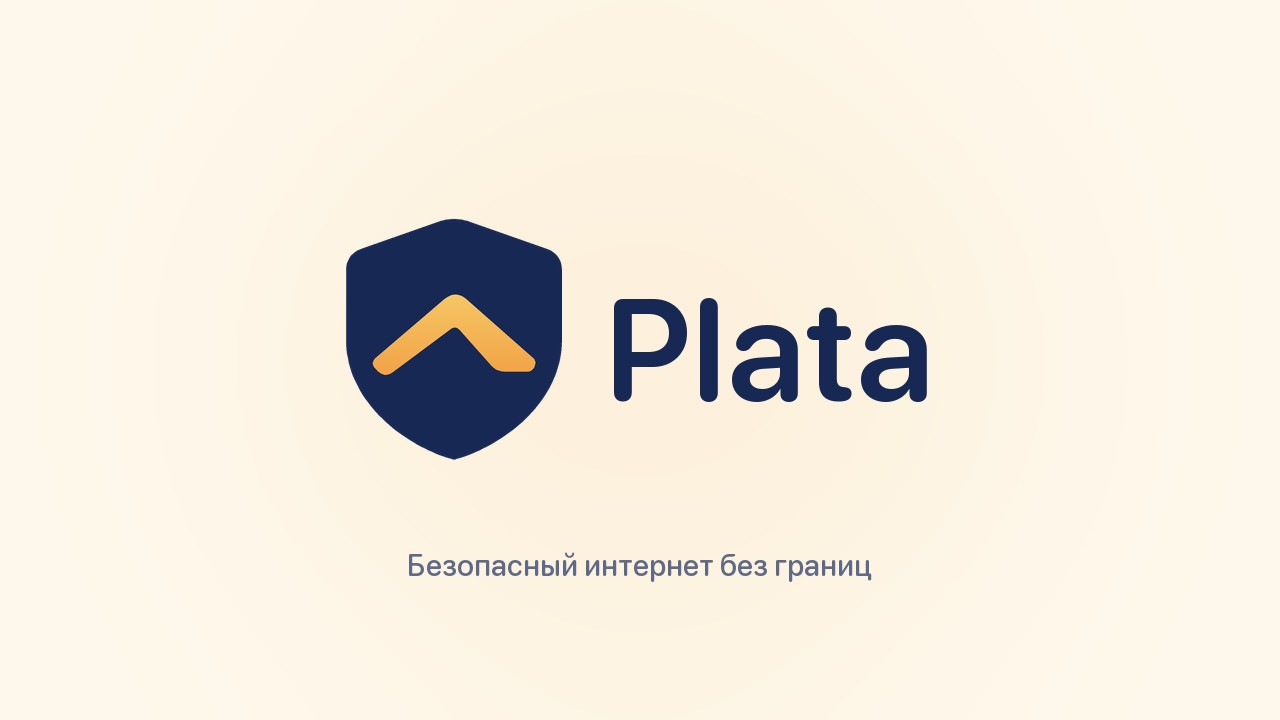
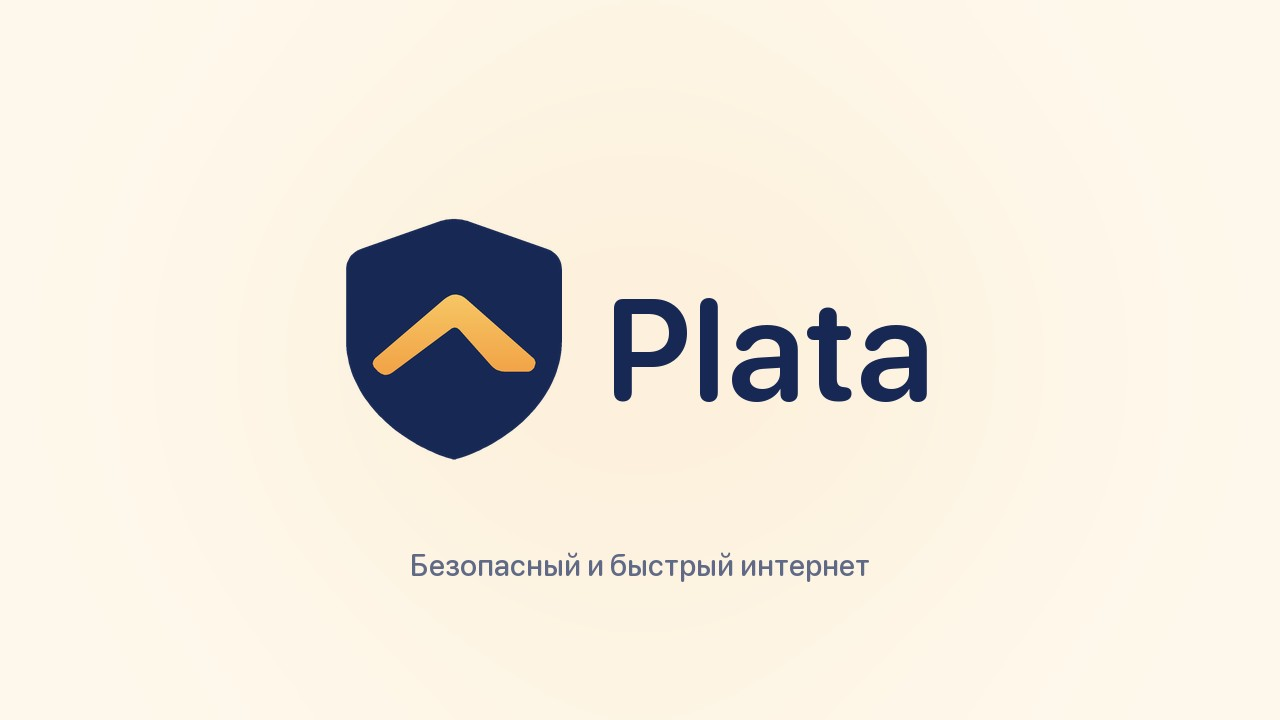
fix: neutral wording in Etalon and Plata bots for payment providers
Platega and YooKassa review the bots: drop named blocked platforms,
«everything that does not open», «without limits/borders» and «free
internet» from greetings, profile descriptions, «how it works» and the
home banners; speak of speed and an encrypted connection instead.
A test keeps those phrases out of every branded theme.

Changed region(s): [[0.3125, 0.7639, 0.6875, 0.825]]

diff --git a/marat_bot/themes/etalon.py b/marat_bot/themes/etalon.py
@@ -68,9 +68,9 @@ BUTTONS = {
 def welcome(name: str | None = None) -> str:
     safe = escape_name(name)
     return (
-        f"<b>{NAME}</b> — эталон свободного интернета.\n\n"
+        f"<b>{NAME}</b> — интернет, каким он должен быть.\n\n"
         + (f"Привет, <b>{safe}</b>! " if safe else "Привет! ")
-        + "YouTube, Instagram, ChatGPT и всё, что не открывается, — снова работает.\n\n"
+        + "Быстрое и защищённое соединение на телефоне и компьютере — в одно касание.\n\n"
         + quote(
             f"✦ 4 страны: {FLAGS}",
             "✦ <b>Авто-обход</b> сам держит лучший сервер",
@@ -192,8 +192,9 @@ def help_text(telegram_id: int) -> str:
 
 HOW_IT_WORKS = (
     "📖 <b>Как это работает</b>\n\n"
-    "Вы подключаетесь к серверам за границей, и сайты видят зарубежный адрес — "
-    "поэтому открывается всё, что заблокировано.\n\n"
+    "Приложение шифрует соединение и ведёт его через наши серверы в Европе и США, "
+    "а Авто-обход постоянно держит самый быстрый из них. Российские сервисы "
+    "в режиме РУ-сервисов открываются напрямую.\n\n"
     + quote(
         "📲 Приложение Happ — iPhone, Android, Windows, Mac",
         "🔗 Одна ссылка — все страны и режимы сразу",
@@ -201,10 +202,10 @@ HOW_IT_WORKS = (
     )
 )
 
-SHORT_DESCRIPTION = f"{NAME} — эталон свободного интернета. 🔑 {TRIAL} бесплатно, без оплаты."
+SHORT_DESCRIPTION = f"{NAME} — интернет, каким он должен быть. 🔑 {TRIAL} бесплатно, без оплаты."
 DESCRIPTION = (
-    f"🔑 {NAME} — эталон свободного интернета.\n\n"
-    "✦ YouTube, Instagram, ChatGPT — без ограничений\n"
+    f"🔑 {NAME} — интернет, каким он должен быть.\n\n"
+    "✦ Быстрое и защищённое соединение\n"
     "✦ 4 страны: Польша, Финляндия, Нидерланды, США\n"
     "✦ Авто-обход сам держит лучший сервер\n"
     "✦ Банки и Госуслуги работают без отключения VPN\n\n"

diff --git a/marat_bot/themes/plata.py b/marat_bot/themes/plata.py
@@ -71,7 +71,7 @@ def welcome(name: str | None = None) -> str:
     safe = escape_name(name)
     return (
         (f"👋 Привет, <b>{safe}</b>!\n\n" if safe else "👋 Привет!\n\n")
-        + f"<b>{NAME}</b> — безопасный интернет без границ: YouTube, Instagram, ChatGPT и всё, что не открывается.\n\n"
+        + f"<b>{NAME}</b> — безопасный и быстрый интернет на телефоне и компьютере.\n\n"
         + quote(
             f"✓ 4 страны: {FLAGS}",
             "✓ <b>Авто-обход</b> сам выбирает быстрый сервер",
@@ -193,8 +193,9 @@ def help_text(telegram_id: int) -> str:
 
 HOW_IT_WORKS = (
     "ℹ <b>Как это работает</b>\n\n"
-    "Вы подключаетесь к серверам за границей, и сайты видят зарубежный адрес — "
-    "поэтому открывается всё, что заблокировано.\n\n"
+    "Приложение шифрует соединение и ведёт его через наши серверы в Европе и США — "
+    "это защищает данные, в том числе в публичных Wi-Fi. Российские сервисы "
+    "в режиме РУ-сервисов открываются напрямую.\n\n"
     + quote(
         "📲 Приложение Happ — iPhone, Android, Windows, Mac",
         "🔗 Одна ссылка — все страны и режимы сразу",
@@ -202,10 +203,10 @@ HOW_IT_WORKS = (
     )
 )
 
-SHORT_DESCRIPTION = f"{NAME} — безопасный интернет без границ. 🛡 {TRIAL} бесплатно, без оплаты."
+SHORT_DESCRIPTION = f"{NAME} — безопасный и быстрый интернет. 🛡 {TRIAL} бесплатно, без оплаты."
 DESCRIPTION = (
-    f"🛡 {NAME} — безопасный интернет без границ.\n\n"
-    "✓ YouTube, Instagram, ChatGPT — без ограничений\n"
+    f"🛡 {NAME} — безопасный и быстрый интернет.\n\n"
+    "✓ Шифрование соединения и защита в публичных Wi-Fi\n"
     "✓ 4 страны: Польша, Финляндия, Нидерланды, США\n"
     "✓ Авто-обход сам выбирает быстрый сервер\n"
     "✓ Банки и Госуслуги работают без отключения VPN\n\n"

diff --git a/tests/test_marat_bot.py b/tests/test_marat_bot.py
@@ -850,3 +850,18 @@ def test_inbounds_and_panel_come_from_the_environment():
                          cwd=os.path.dirname(os.path.dirname(os.path.abspath(__file__))))
     assert res.returncode == 0, res.stderr
     assert res.stdout.splitlines() == ["['VLESS DE', 'VLESS NL']", "https://panel.example:8443 avangard"]
+
+
+# --- 13.10.2026: формулировки для платёжных провайдеров (Platega, ЮKassa) ---
+
+from marat_bot.themes import plata  # noqa: E402
+
+_RISKY = ("заблокир", "блокиров", "youtube", "instagram", "chatgpt", "без границ", "свободного интернета",
+          "не открывается", "без ограничений")
+
+
+def test_branded_bots_never_advertise_bypassing_blocks():
+    for theme in (etalon, plata, avangard):
+        for text in _theme_screens(theme) + [theme.DESCRIPTION, theme.SHORT_DESCRIPTION, theme.HOW_IT_WORKS]:
+            low = text.lower()
+            assert not [w for w in _RISKY if w in low], (theme.__name__, text[:80])

diff --git a/scripts/make_etalon_banners.py b/scripts/make_etalon_banners.py
@@ -129,7 +129,7 @@ def screen(name: str, title: str, subtitle: str, chips: list[str] | None = None)
     im.save(os.path.join(OUT, f"{name}.jpg"), quality=90, optimize=True, progressive=True)
 
 
-def hero(name: str = "home", size: tuple[int, int] = (W, H), tagline: str = "ЭТАЛОН СВОБОДНОГО ИНТЕРНЕТА") -> Image.Image:
+def hero(name: str = "home", size: tuple[int, int] = (W, H), tagline: str = "ИНТЕРНЕТ, КАКИМ ОН ДОЛЖЕН БЫТЬ") -> Image.Image:
     w, h = size
     im = Image.new("RGB", size, NAVY)
     glow = Image.new("L", size, 0)

diff --git a/scripts/make_plata_banners.py b/scripts/make_plata_banners.py
@@ -138,7 +138,7 @@ def screen(name: str, title: str, subtitle: str, chips: list[str] | None = None)
     im.save(os.path.join(OUT, f"{name}.jpg"), quality=90, optimize=True, progressive=True)
 
 
-def hero(size=(W, H), tagline: str | None = "Безопасный интернет без границ") -> Image.Image:
+def hero(size=(W, H), tagline: str | None = "Безопасный и быстрый интернет") -> Image.Image:
     w, h = size
     im = Image.new("RGB", size, CREAM)
     glow = Image.new("L", size, 0)
